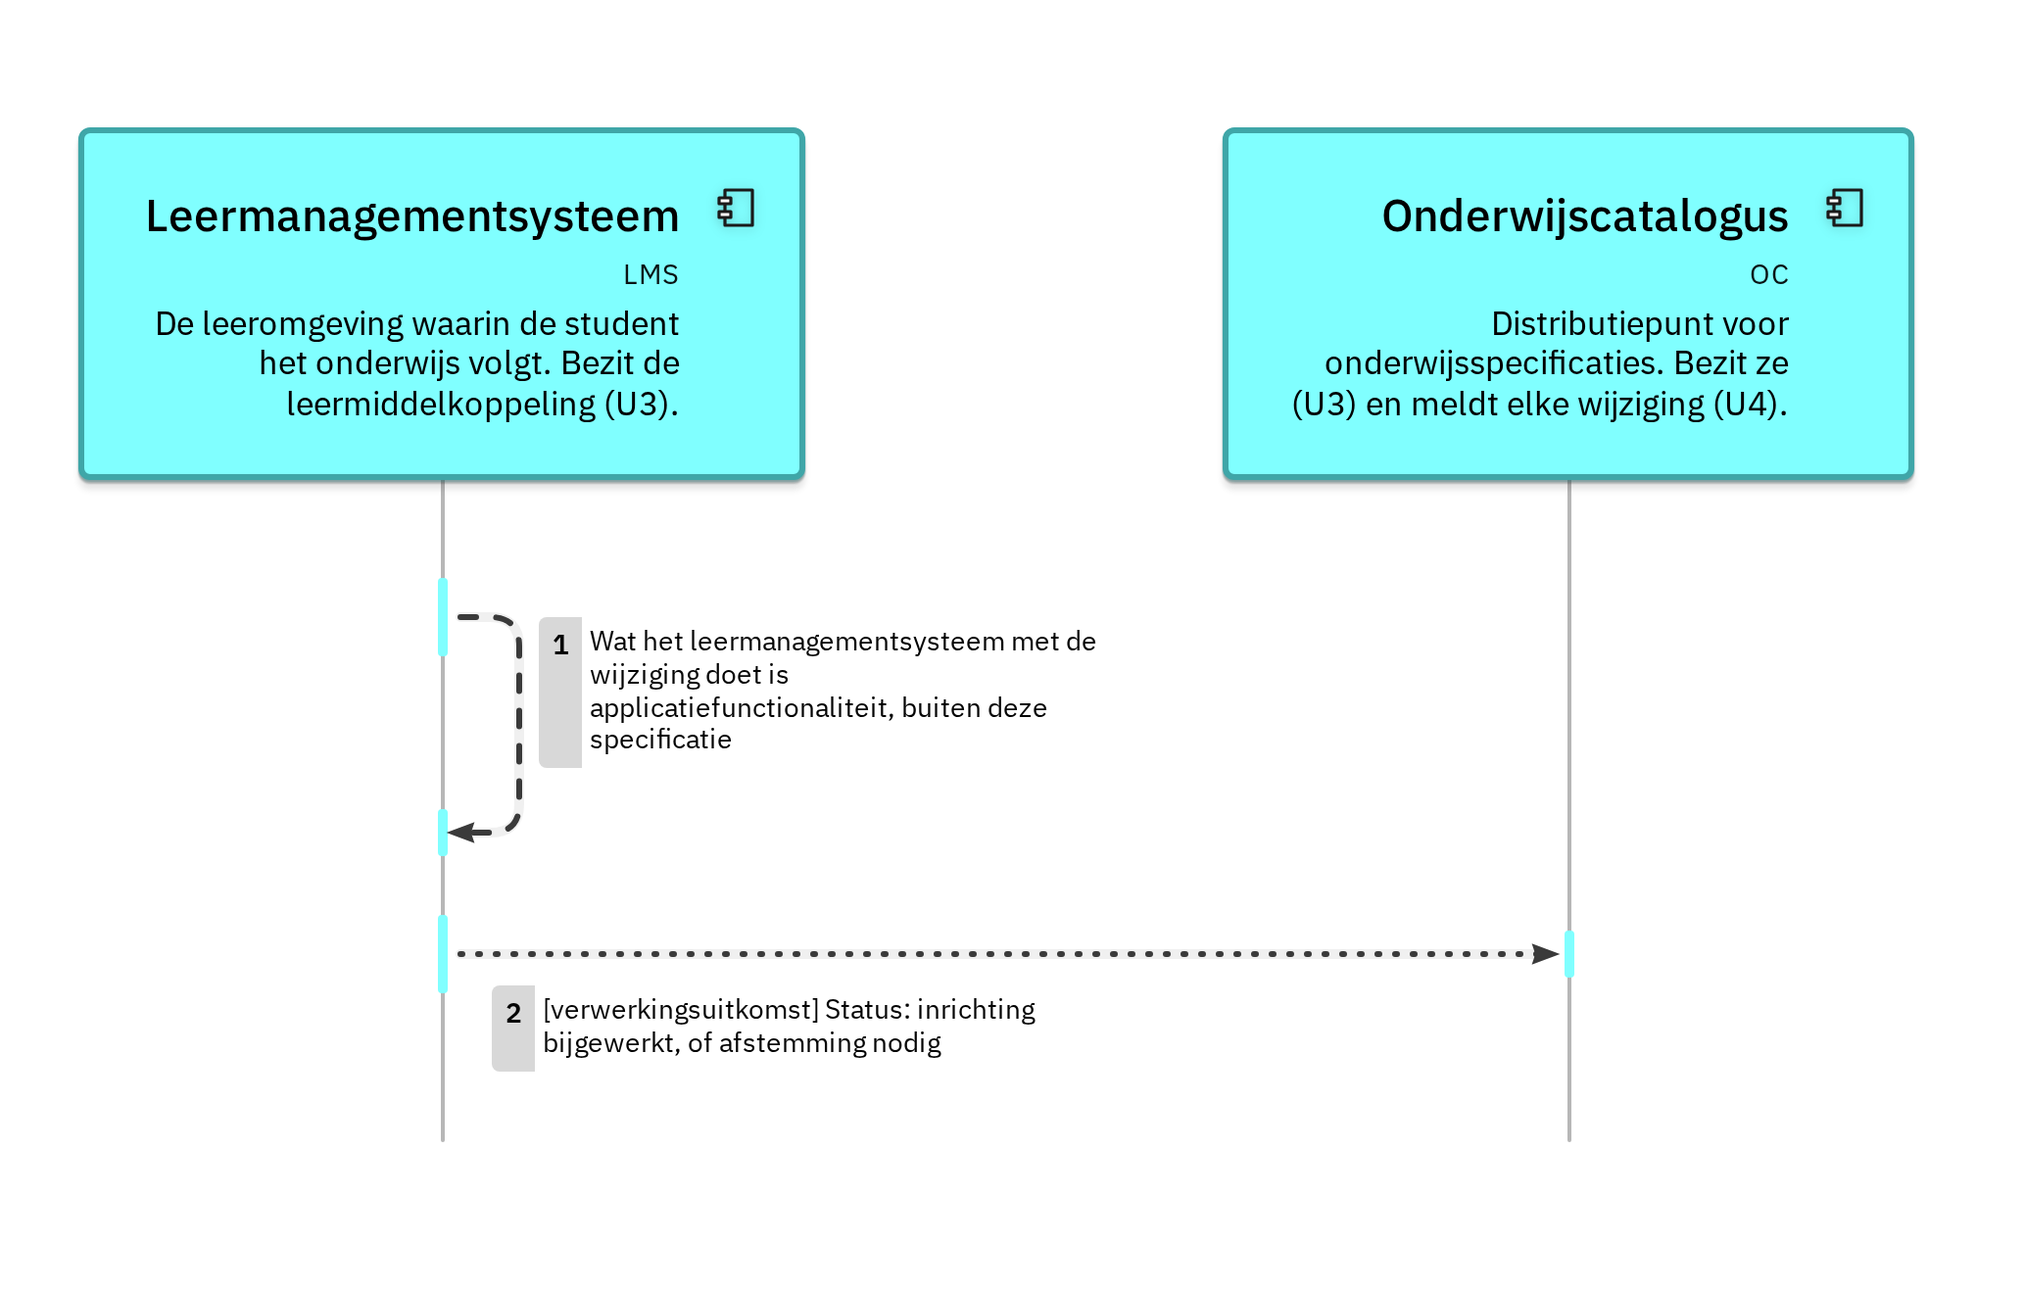
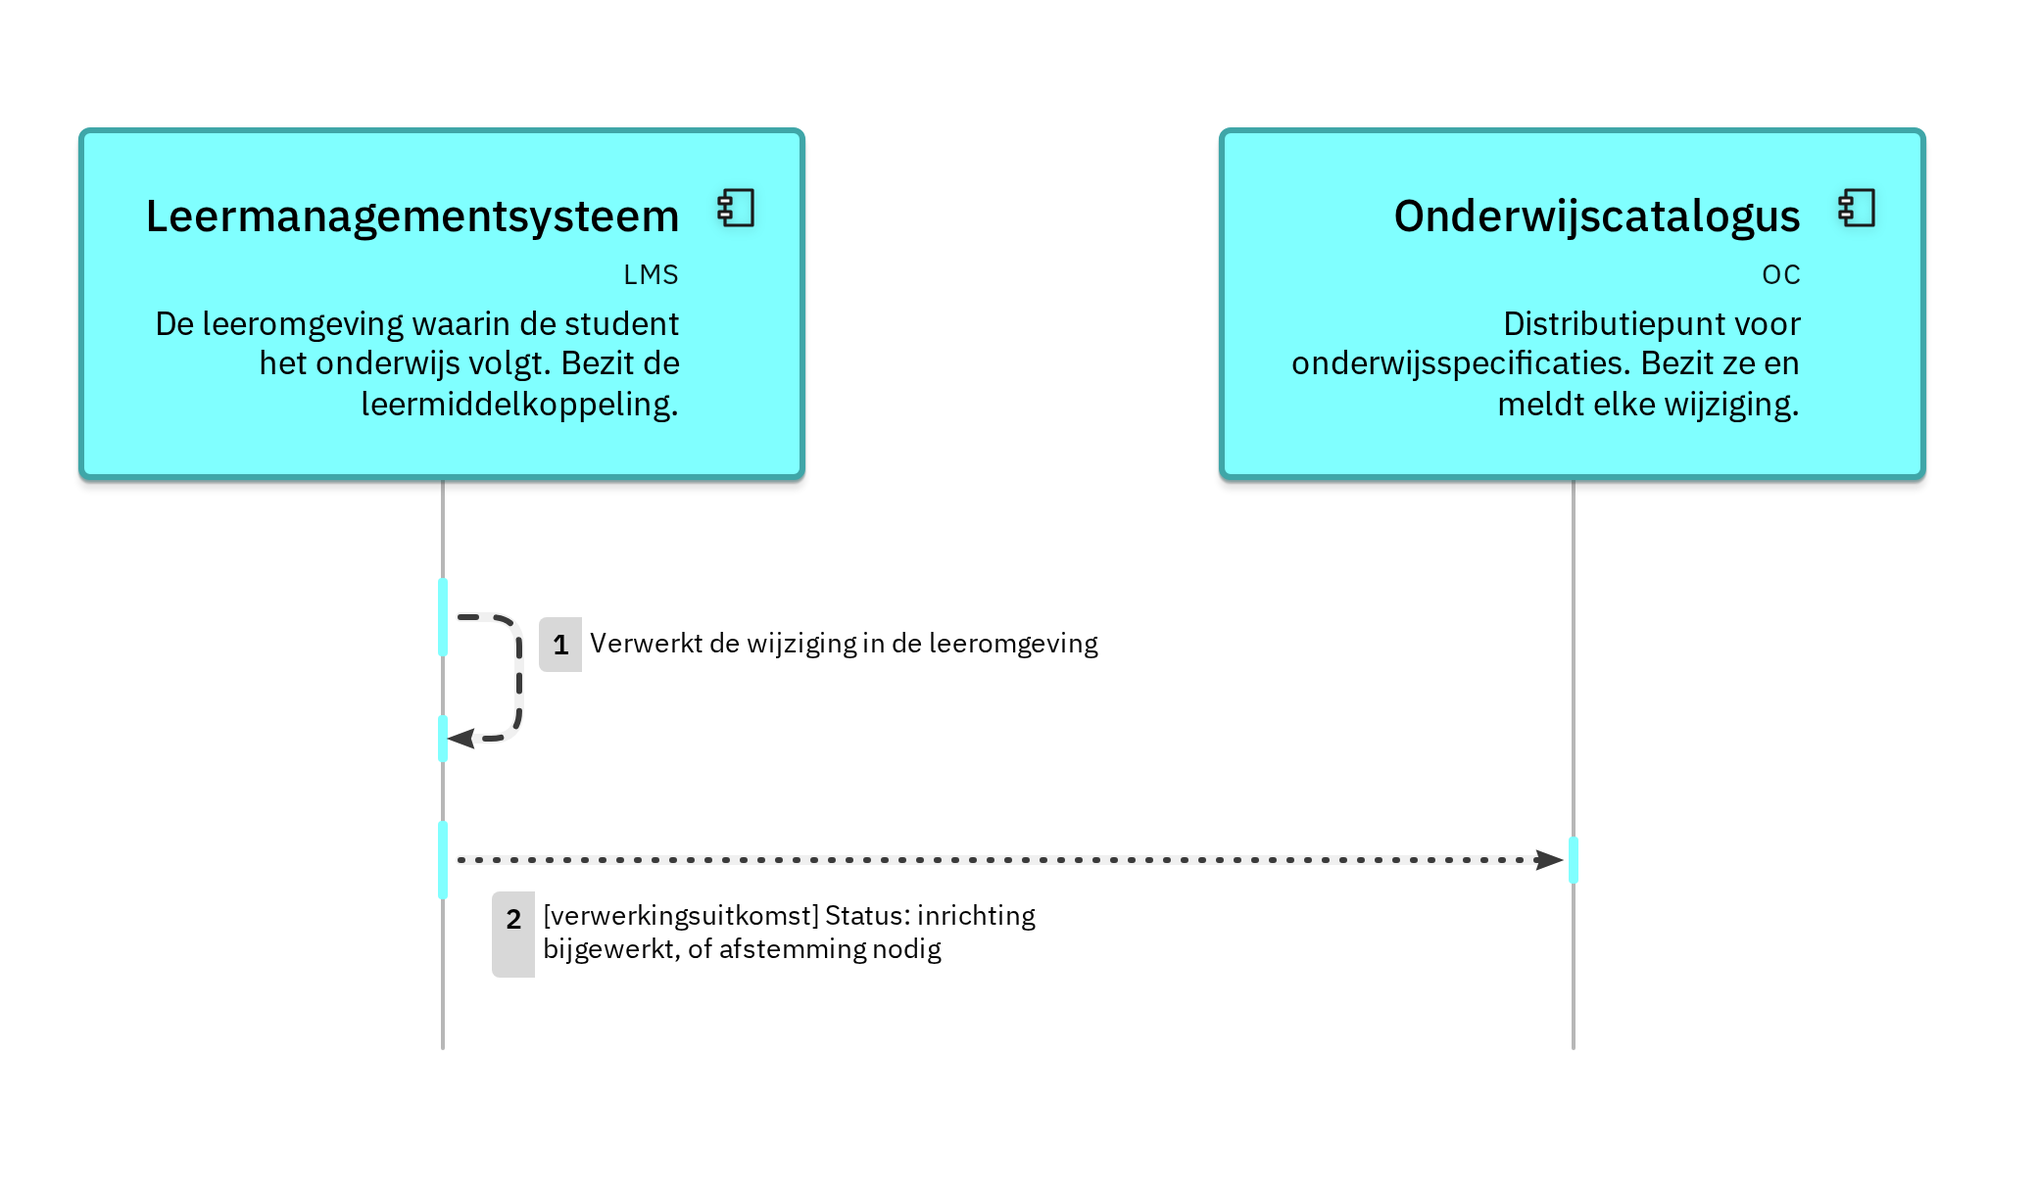
Leg vast dat wie gegevens aanneemt een endpoint heeft
Een aantal dienstpagina's zei "geen endpoint, stelt zelf niets
beschikbaar" bij diensten die wel gegevens ontvangen of moeten ophalen.
Daardoor bleef open waar een melding landt en of de afnemer de inhoud
echt moet ophalen. Een implementer kon daar uit afleiden dat hij een
melding kon negeren of dat het afleveradres een vrije inrichtingskeuze
was.

- Koppelvlakdiensten/README.md legt de regel vast: wie gegevens
  aanneemt heeft een endpoint, een dienst zonder eigen endpoint haalt
  op of verstuurt alleen.
- De afnemerdiensten van onderwijsspecificatiestructuur,
  resultaatstructuur, leermiddelkoppeling en planbaar onderwijsaanbod
  noemen nu bij welke aanbieder en met welke aanroepen zij ophalen, en
  dat ophalen vereist is: een melding draagt alleen een verwijzing.
- afleverabonnement-afnemer en verwerkingsuitkomst-aanbieder zeggen
  waar hun verkeer heen gaat in plaats van dat het een inrichtingskeuze
  is.
- Het LikeC4-model volgt: gedragsblokken voor het ophalen, en het
  studentinformatiesysteem en het leermanagementsysteem dragen nu ook
  afleverabonnement-aanbieder en -afnemer. versiebeheer-in-de-praktijk
  krijgt de bijbehorende regel voor POST /abonnementen.
- De skill okx-diagrammen neemt de regel over.

Daarnaast zijn de diagramteksten in het model ontdaan van verwijzingen
die de lezer van een plaat niet kan volgen: codes van uitgangspunten,
"buiten deze specificatie", "zie de tabel", "bv." en een verwijzing naar
een memo. Wat er overblijft zegt wat er gebeurt.
[…]

Changed region(s): [[0.031, 0.093, 0.5576, 0.6819], [0.5886, 0.093, 0.9603, 0.4029], [0.2168, 0.6819, 0.7744, 0.8369]]

diff --git a/Koppelvlakspecificaties/koppelvlakspecificatie.md b/Koppelvlakspecificaties/koppelvlakspecificatie.md
@@ -1949,6 +1949,8 @@ Een koppelvlakdienst is het contract waarmee een component een deel van zijn ged
 
 Een aanbieder zorgt dat hij een gegeven of een functionaliteit levert; een afnemer zorgt dat hij die kan afnemen. Dat zijn **twee losse diensten**, niet twee kanten van één, en op een pagina staan daarom alleen verplichtingen van één van beide richtingen. Een component dat onderwijsspecificaties publiceert implementeert `onderwijsspecificatiestructuur-aanbieder`; een component dat ze wil gebruiken implementeert `onderwijsspecificatiestructuur-afnemer`. Beide zijn zelfstandig te implementeren; een versie draagt alleen de koppeling die ze inzet ([release management §4.2](release-management.md#42-een-koppeling-draagt-haar-eigen-versie)).
 
+**Wie gegevens aanneemt, heeft een endpoint.** Krijgt een component gegevens toegestuurd, dan heeft het een endpoint nodig: de verzender moet ze ergens heen sturen. Een dienst zonder eigen endpoint neemt dus niets aan; het component haalt op of verstuurt alleen. Haalt het op, dan staat op de dienstpagina dat ophalen vereist is.
+
 Met welk patroon een dienst wordt gebruikt is een keuze van de berichtstroom die hem inzet, niet een eigenschap van de dienst.
 
 | Aanbieder | Afnemer | Waarover |
@@ -2037,6 +2039,8 @@ De endpoints die het component implementeert om deze dienst te leveren.
 | `specificatie-beschikbaar` | POST | — | [specification-reference.json](https://github.com/Npuls-OKx/Public/blob/informatie-en-gegevensmodellen-v0.1.0/Informatie-en-gegevensmodellen/schemas/specification-reference.json) | — | 200 |
 | `specificatie-gewijzigd` | POST | — | [specification-changed.json](https://github.com/Npuls-OKx/Public/blob/informatie-en-gegevensmodellen-v0.1.0/Informatie-en-gegevensmodellen/schemas/specification-changed.json) | — | 200 |
 | `specificatie-status-gewijzigd` | POST | — | [specification-status-changed.json](https://github.com/Npuls-OKx/Public/blob/informatie-en-gegevensmodellen-v0.1.0/Informatie-en-gegevensmodellen/schemas/specification-status-changed.json) | — | 200 |
+
+Daarnaast haalt het component op bij [onderwijsspecificatiestructuur-aanbieder](#52-onderwijsspecificatiestructuur-aanbieder), met `GET /onderwijsspecificaties/{id}`, `GET /onderwijsspecificaties/{id}/delta` en `GET /onderwijsspecificaties`. **Ophalen is vereist**: een melding draagt alleen een verwijzing.
 
 #### 5.3.2 Gebruikt in
 
@@ -2196,7 +2200,7 @@ Een component dat deze dienst implementeert:
 
 De endpoints die het component implementeert om deze dienst te leveren.
 
-Geen. Deze dienst vraagt geen eigen endpoints: de afnemer haalt op bij de aanbieder en stelt zelf niets beschikbaar. Dat er aanbod is, blijkt uit [verwerkingsuitkomst-afnemer](#527-verwerkingsuitkomst-afnemer).
+Geen eigen endpoint. **Ophalen is vereist**: het component haalt het aanbod op bij [planbaar-onderwijsaanbod-aanbieder](#58-planbaar-onderwijsaanbod-aanbieder), met `GET /onderwijsaanbod/{id}` en `GET /onderwijsaanbod`, wanneer het de inhoud nodig heeft. Dat er aanbod is, hoort het op het endpoint van [verwerkingsuitkomst-afnemer](#527-verwerkingsuitkomst-afnemer).
 
 #### 5.9.2 Gebruikt in
 
@@ -2508,6 +2512,8 @@ De endpoints die het component implementeert om deze dienst te leveren.
 | `resultaatstructuur-beschikbaar` | POST | — | Specificatie-id en versie, examenplan-id en versie. Payloadschema nog niet uitgewerkt | — | 200 |
 | `examenplanspecificatie-gewijzigd` | POST | — | [specification-changed.json](https://github.com/Npuls-OKx/Public/blob/informatie-en-gegevensmodellen-v0.1.0/Informatie-en-gegevensmodellen/schemas/specification-changed.json), met wijzigingsklasse | — | 200 |
 
+Daarnaast haalt het component de resultaatstructuur op bij [resultaatstructuur-aanbieder](#520-resultaatstructuur-aanbieder), met `GET /examenplanspecificaties/{id}`. **Ophalen is vereist**: een melding draagt alleen een verwijzing.
+
 #### 5.21.2 Gebruikt in
 
 - [Resultaatstructuur ophalen](#45-resultaatstructuur-ophalen)
@@ -2611,6 +2617,8 @@ De endpoints die het component implementeert om deze dienst te leveren.
 |---|---|---|---|---|---|
 | `leermiddelkoppeling-beschikbaar` | POST | — | Referentie naar de koppeling, specificatie-id en versie. Payloadschema nog niet uitgewerkt | — | 200 |
 
+Daarnaast haalt het component de koppeling op bij [leermiddelkoppeling-aanbieder](#524-leermiddelkoppeling-aanbieder), met `GET /leermiddelkoppelingen/{id}`. **Ophalen is vereist** om de koppeling te tonen of te gebruiken: de melding draagt alleen een verwijzing.
+
 #### 5.25.2 Gebruikt in
 
 - [Leeromgeving inrichten](#426-leeromgeving-inrichten)
@@ -2626,7 +2634,7 @@ Het implementerende component maakt bekend wat zijn verwerking van een aangeleve
 
 Een component dat deze dienst implementeert:
 
-- stelt de uitkomst beschikbaar: ontvangen, gestart, gelukt, niet gelukt of afgekeurd.
+- meldt de uitkomst: ontvangen, gestart, gelukt, niet gelukt of afgekeurd.
 - onderscheidt niet-terminale van terminale uitkomsten, zodat de afnemer weet wanneer hij zijn eigen status mag bijstellen.
 - draagt bij een geslaagde verwerking een referentie naar wat is aangemaakt, en niet de instantie zelf ([U3](#83-u3-resource-eigenaarschap)).
 - draagt bij afkeuring of falen de reden, in een vorm die de afnemer kan verwerken.
@@ -2636,7 +2644,7 @@ Een component dat deze dienst implementeert:
 
 De endpoints die het component implementeert om deze dienst te leveren.
 
-Geen. De uitkomst wordt gemeld, niet aangeboden op een eigen endpoint; waar zij landt is een inrichtingskeuze van de koppeling. Het endpoint dat haar aanneemt staat bij [verwerkingsuitkomst-afnemer](#527-verwerkingsuitkomst-afnemer).
+Geen eigen endpoint: het component verstuurt de uitkomst alleen. Het endpoint dat haar aanneemt, `verwerkingsuitkomst`, staat bij [verwerkingsuitkomst-afnemer](#527-verwerkingsuitkomst-afnemer).
 
 #### 5.26.2 Gebruikt in
 
@@ -2728,7 +2736,7 @@ Een component dat deze dienst implementeert:
 
 De endpoints die het component implementeert om deze dienst te leveren.
 
-Geen. Deze dienst vraagt geen eigen endpoints: de afnemer registreert zich bij de aanbieder en stelt zelf niets beschikbaar.
+Geen eigen endpoint: het component verstuurt alleen, met `POST /abonnementen` bij [afleverabonnement-aanbieder](#528-afleverabonnement-aanbieder). De meldingen zelf neemt het aan op de endpoints van de afnemerdienst waarop het abonnement slaat, zoals `specificatie-beschikbaar` bij [onderwijsspecificatiestructuur-afnemer](#53-onderwijsspecificatiestructuur-afnemer); de `callbackUrl` wijst naar zo'n endpoint.
 
 #### 5.29.2 Gebruikt in
 

diff --git a/.agents/skills/okx-diagrammen/SKILL.md b/.agents/skills/okx-diagrammen/SKILL.md
@@ -34,7 +34,7 @@ npm run diagrammen:render      # alles opnieuw naar src/
 
 **De elementsoorten volgen de begrippen, niet de tekening.** Een `systeem` is een applicatiecomponent uit de keten, een `koppelvlak` de optelsom van de koppelingen die het raken, een `dienst` een koppelvlakdienst die het component claimt, en een `endpoint` het endpoint waarmee het die dienst levert. Die vier komen één op één uit [`Applicatiecomponenten/`](../../../Koppelvlakspecificaties/Applicatiecomponenten/) en [`Koppelvlakdiensten/`](../../../Koppelvlakspecificaties/Koppelvlakdiensten/). Verzin er niets bij: wijzigt een dienstpagina, dan wijzigt het model mee.
 
-**Elke dienst is een container, ook zonder endpoint.** Levert een dienst zelf niets — de afnemer die ophaalt, de aanbieder die meldt — geef hem dan een blok van de soort `gedrag` dat benoemt wát hij doet: "Haalt het opleidingsaanbod op bij de aanbieder", "Meldt de uitkomst van het planproces". Zonder dat blok rendert dezelfde elementsoort op twee manieren, als omlijnde groep én als vol blok, en dan denkt de lezer dat het om twee verschillende dingen gaat.
+**Elke dienst is een container, ook zonder endpoint.** Levert een dienst zelf niets — de afnemer die ophaalt, de aanbieder die meldt — geef hem dan een blok van de soort `gedrag` dat benoemt wát hij doet: "Haalt het opleidingsaanbod op bij de aanbieder", "Meldt de uitkomst van het planproces". Zonder dat blok rendert dezelfde elementsoort op twee manieren, als omlijnde groep én als vol blok, en dan denkt de lezer dat het om twee verschillende dingen gaat. Een dienst die gegevens aanneemt, heeft altijd een endpoint: de verzender moet ergens heen. Haalt een afnemer op, dan krijgt zijn dienst een gedragsblok dat zegt dat ophalen vereist is, ook als de dienst daarnaast endpoints draagt voor de meldingen.
 
 **Relaties hangen aan het gedrag, niet aan de dienst.** Het is het ophalen dat aanroept en het melden dat meldt. Gebruik de relatiesoorten: `-[melding]->` voor een dun event met een verwijzing ([U4](../../../Koppelvlakspecificaties/uitgangspunten.md#u4-event-notification)), `-[aanroep]->` voor een synchrone aanroep met antwoord. Let op dat ook de aanbieder van een structuur een gedragsblok heeft: bekendmaken dat er iets is gewijzigd vraagt geen endpoint van hem.
 

diff --git a/Koppelvlakspecificaties/Koppelvlakdiensten/verwerkingsuitkomst-aanbieder.md b/Koppelvlakspecificaties/Koppelvlakdiensten/verwerkingsuitkomst-aanbieder.md
@@ -6,7 +6,7 @@ Het implementerende component maakt bekend wat zijn verwerking van een aangeleve
 
 Een component dat deze dienst implementeert:
 
-- stelt de uitkomst beschikbaar: ontvangen, gestart, gelukt, niet gelukt of afgekeurd.
+- meldt de uitkomst: ontvangen, gestart, gelukt, niet gelukt of afgekeurd.
 - onderscheidt niet-terminale van terminale uitkomsten, zodat de afnemer weet wanneer hij zijn eigen status mag bijstellen.
 - draagt bij een geslaagde verwerking een referentie naar wat is aangemaakt, en niet de instantie zelf ([U3](../uitgangspunten.md#u3-resource-eigenaarschap)).
 - draagt bij afkeuring of falen de reden, in een vorm die de afnemer kan verwerken.
@@ -16,7 +16,7 @@ Een component dat deze dienst implementeert:
 
 De endpoints die het component implementeert om deze dienst te leveren.
 
-Geen. De uitkomst wordt gemeld, niet aangeboden op een eigen endpoint; waar zij landt is een inrichtingskeuze van de koppeling. Het endpoint dat haar aanneemt staat bij [verwerkingsuitkomst-afnemer](verwerkingsuitkomst-afnemer.md).
+Geen eigen endpoint: het component verstuurt de uitkomst alleen. Het endpoint dat haar aanneemt, `verwerkingsuitkomst`, staat bij [verwerkingsuitkomst-afnemer](verwerkingsuitkomst-afnemer.md).
 
 ## Gebruikt in
 

diff --git a/Koppelvlakspecificaties/Koppelvlakdiensten/README.md b/Koppelvlakspecificaties/Koppelvlakdiensten/README.md
@@ -4,6 +4,8 @@ Een koppelvlakdienst is het contract waarmee een component een deel van zijn ged
 
 Een aanbieder zorgt dat hij een gegeven of een functionaliteit levert; een afnemer zorgt dat hij die kan afnemen. Dat zijn **twee losse diensten**, niet twee kanten van één, en op een pagina staan daarom alleen verplichtingen van één van beide richtingen. Een component dat onderwijsspecificaties publiceert implementeert `onderwijsspecificatiestructuur-aanbieder`; een component dat ze wil gebruiken implementeert `onderwijsspecificatiestructuur-afnemer`. Beide zijn zelfstandig te implementeren; een versie draagt alleen de koppeling die ze inzet ([release management §4.2](../release-management.md#42-een-koppeling-draagt-haar-eigen-versie)).
 
+**Wie gegevens aanneemt, heeft een endpoint.** Krijgt een component gegevens toegestuurd, dan heeft het een endpoint nodig: de verzender moet ze ergens heen sturen. Een dienst zonder eigen endpoint neemt dus niets aan; het component haalt op of verstuurt alleen. Haalt het op, dan staat op de dienstpagina dat ophalen vereist is.
+
 Met welk patroon een dienst wordt gebruikt is een keuze van de berichtstroom die hem inzet, niet een eigenschap van de dienst.
 
 | Aanbieder | Afnemer | Waarover |

diff --git a/Koppelvlakspecificaties/Koppelvlakdiensten/onderwijsspecificatiestructuur-afnemer.md b/Koppelvlakspecificaties/Koppelvlakdiensten/onderwijsspecificatiestructuur-afnemer.md
@@ -22,6 +22,8 @@ De endpoints die het component implementeert om deze dienst te leveren.
 | `specificatie-gewijzigd` | POST | — | [specification-changed.json](../../Informatie-en-gegevensmodellen/schemas/specification-changed.json) | — | 200 |
 | `specificatie-status-gewijzigd` | POST | — | [specification-status-changed.json](../../Informatie-en-gegevensmodellen/schemas/specification-status-changed.json) | — | 200 |
 
+Daarnaast haalt het component op bij [onderwijsspecificatiestructuur-aanbieder](onderwijsspecificatiestructuur-aanbieder.md), met `GET /onderwijsspecificaties/{id}`, `GET /onderwijsspecificaties/{id}/delta` en `GET /onderwijsspecificaties`. **Ophalen is vereist**: een melding draagt alleen een verwijzing.
+
 ## Gebruikt in
 
 - [Onderwijsspecificatie ophalen](../Koppelingen/onderwijsspecificatie-ophalen.md)

diff --git a/Koppelvlakspecificaties/versiebeheer-in-de-praktijk.md b/Koppelvlakspecificaties/versiebeheer-in-de-praktijk.md
@@ -78,6 +78,7 @@ De verdeling van de endpoints over de drie koppelvlakken ziet er in die basisver
 | Planningssysteem | [afleverabonnement-aanbieder](Koppelvlakdiensten/afleverabonnement-aanbieder.md) | `POST /abonnementen` |
 | Leermanagementsysteem | [onderwijsspecificatiestructuur-afnemer](Koppelvlakdiensten/onderwijsspecificatiestructuur-afnemer.md) | `POST specificatie-beschikbaar`, `POST specificatie-gewijzigd`, `POST specificatie-status-gewijzigd` |
 | Leermanagementsysteem | [leermiddelkoppeling-aanbieder](Koppelvlakdiensten/leermiddelkoppeling-aanbieder.md) | `GET /leermiddelkoppelingen/{id}` |
+| Leermanagementsysteem | [afleverabonnement-aanbieder](Koppelvlakdiensten/afleverabonnement-aanbieder.md) | `POST /abonnementen` |
 
 ## 4. Waar een versie zit
 

diff --git a/Koppelvlakspecificaties/Koppelvlakdiensten/resultaatstructuur-afnemer.md b/Koppelvlakspecificaties/Koppelvlakdiensten/resultaatstructuur-afnemer.md
@@ -19,6 +19,8 @@ De endpoints die het component implementeert om deze dienst te leveren.
 | `resultaatstructuur-beschikbaar` | POST | — | Specificatie-id en versie, examenplan-id en versie. Payloadschema nog niet uitgewerkt | — | 200 |
 | `examenplanspecificatie-gewijzigd` | POST | — | [specification-changed.json](../../Informatie-en-gegevensmodellen/schemas/specification-changed.json), met wijzigingsklasse | — | 200 |
 
+Daarnaast haalt het component de resultaatstructuur op bij [resultaatstructuur-aanbieder](resultaatstructuur-aanbieder.md), met `GET /examenplanspecificaties/{id}`. **Ophalen is vereist**: een melding draagt alleen een verwijzing.
+
 ## Gebruikt in
 
 - [Resultaatstructuur ophalen](../Koppelingen/resultaatstructuur-ophalen.md)

diff --git a/Koppelvlakspecificaties/Koppelvlakdiensten/planbaar-onderwijsaanbod-afnemer.md b/Koppelvlakspecificaties/Koppelvlakdiensten/planbaar-onderwijsaanbod-afnemer.md
@@ -14,7 +14,7 @@ Een component dat deze dienst implementeert:
 
 De endpoints die het component implementeert om deze dienst te leveren.
 
-Geen. Deze dienst vraagt geen eigen endpoints: de afnemer haalt op bij de aanbieder en stelt zelf niets beschikbaar. Dat er aanbod is, blijkt uit [verwerkingsuitkomst-afnemer](verwerkingsuitkomst-afnemer.md).
+Geen eigen endpoint. **Ophalen is vereist**: het component haalt het aanbod op bij [planbaar-onderwijsaanbod-aanbieder](planbaar-onderwijsaanbod-aanbieder.md), met `GET /onderwijsaanbod/{id}` en `GET /onderwijsaanbod`, wanneer het de inhoud nodig heeft. Dat er aanbod is, hoort het op het endpoint van [verwerkingsuitkomst-afnemer](verwerkingsuitkomst-afnemer.md).
 
 ## Gebruikt in
 

diff --git a/Koppelvlakspecificaties/Koppelvlakdiensten/afleverabonnement-afnemer.md b/Koppelvlakspecificaties/Koppelvlakdiensten/afleverabonnement-afnemer.md
@@ -14,7 +14,7 @@ Een component dat deze dienst implementeert:
 
 De endpoints die het component implementeert om deze dienst te leveren.
 
-Geen. Deze dienst vraagt geen eigen endpoints: de afnemer registreert zich bij de aanbieder en stelt zelf niets beschikbaar.
+Geen eigen endpoint: het component verstuurt alleen, met `POST /abonnementen` bij [afleverabonnement-aanbieder](afleverabonnement-aanbieder.md). De meldingen zelf neemt het aan op de endpoints van de afnemerdienst waarop het abonnement slaat, zoals `specificatie-beschikbaar` bij [onderwijsspecificatiestructuur-afnemer](onderwijsspecificatiestructuur-afnemer.md); de `callbackUrl` wijst naar zo'n endpoint.
 
 ## Gebruikt in
 

diff --git a/Koppelvlakspecificaties/Koppelvlakdiensten/leermiddelkoppeling-afnemer.md b/Koppelvlakspecificaties/Koppelvlakdiensten/leermiddelkoppeling-afnemer.md
@@ -17,6 +17,8 @@ De endpoints die het component implementeert om deze dienst te leveren.
 |---|---|---|---|---|---|
 | `leermiddelkoppeling-beschikbaar` | POST | — | Referentie naar de koppeling, specificatie-id en versie. Payloadschema nog niet uitgewerkt | — | 200 |
 
+Daarnaast haalt het component de koppeling op bij [leermiddelkoppeling-aanbieder](leermiddelkoppeling-aanbieder.md), met `GET /leermiddelkoppelingen/{id}`. **Ophalen is vereist** om de koppeling te tonen of te gebruiken: de melding draagt alleen een verwijzing.
+
 ## Gebruikt in
 
 - [Leeromgeving inrichten](../Koppelingen/leeromgeving-inrichten.md)
